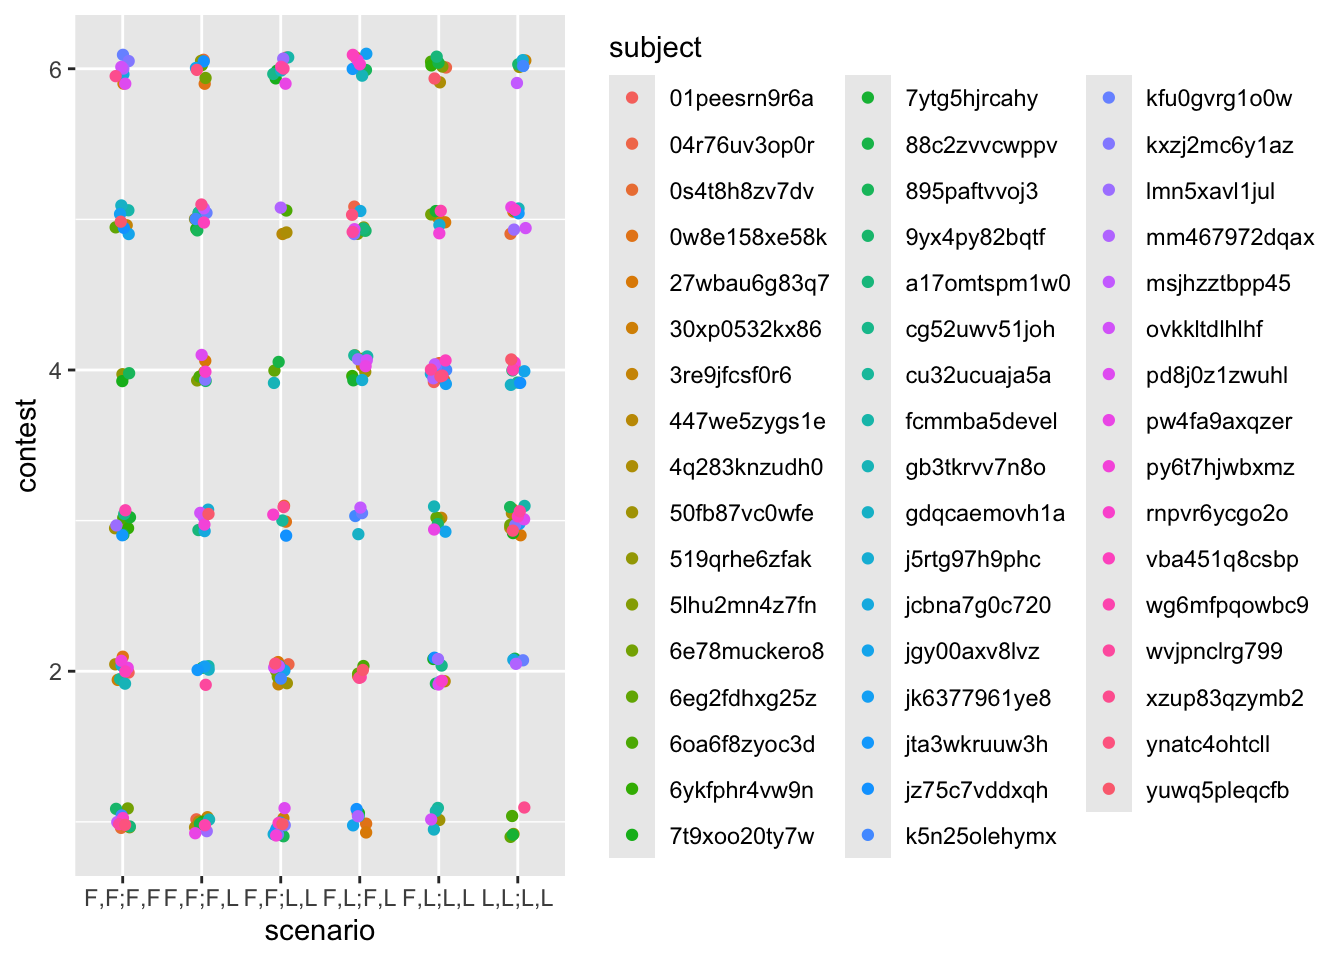
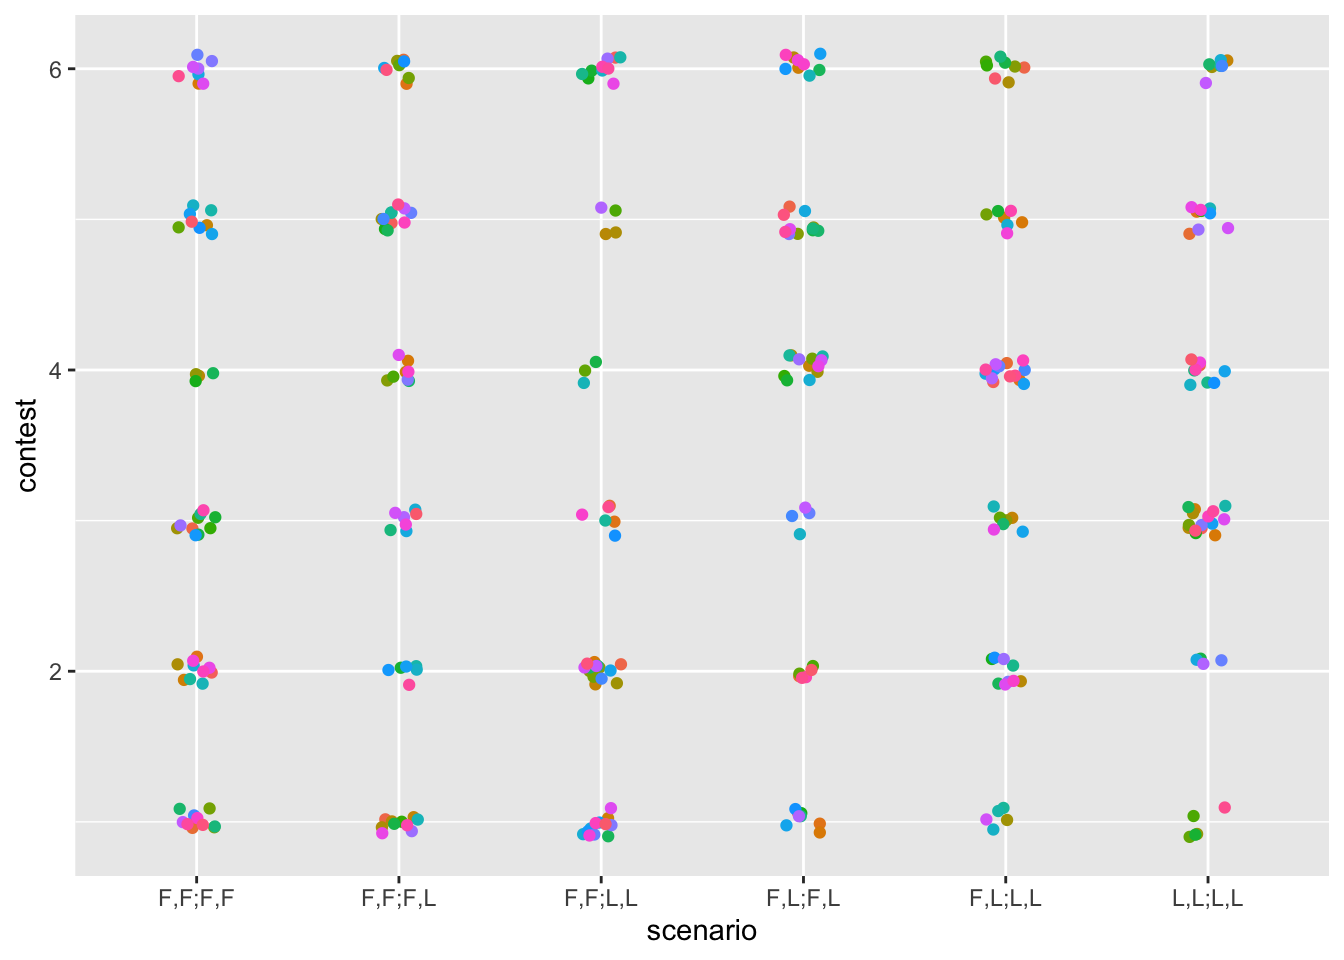
update to send to authors

diff --git a/_output/writeup/index.html b/_output/writeup/index.html
@@ -7,7 +7,7 @@
 <meta name="viewport" content="width=device-width, initial-scale=1.0, user-scalable=yes">
 
 <meta name="author" content="Jacob C. Zimmerman">
-<meta name="dcterms.date" content="2025-12-10">
+<meta name="dcterms.date" content="2025-12-19">
 
 <title>Replication of Experiment 1 by Xiang, Vélez &amp; Gershman (2023, JEP:G)</title>
 <style>
@@ -237,7 +237,7 @@ window.Quarto = {
     <div>
     <div class="quarto-title-meta-heading">Published</div>
     <div class="quarto-title-meta-contents">
-      <p class="date">December 10, 2025</p>
+      <p class="date">December 19, 2025</p>
     </div>
   </div>
   
@@ -252,7 +252,7 @@ window.Quarto = {
 <!-- Replication reports should all use this template to standardize reporting across projects.  These reports will be public supplementary materials that accompany the summary report(s) of the aggregate results. -->
 <section id="introduction" class="level2">
 <h2 class="anchored" data-anchor-id="introduction">Introduction</h2>
-<p>How do individuals perceive, represent, and judge potential collaborators’ affordances for collaboration? <span class="citation" data-cites="Xiang2023-zo">Xiang et al. (<a href="#ref-Xiang2023-zo" role="doc-biblioref">2023</a>)</span> propose and empirically validate a probabilistic model in which recursively updated inferences of competence and effort (“belief–desire–competence framework”), together with observed outcomes, jointly predict individuals’ judgments of collaborators, across various cognitive tasks which are common within collaboration. In particular, in Experiment 1, their model best predicts participants’ judgments about whether joint activity will succeed, compared to plausible alternative models. I sought to replicate this finding to help establish the robustness of this model of collaborator judgment, before I might extend it in future work.</p>
+<p>How do individuals perceive, represent, and judge potential collaborators’ affordances for collaboration? <span class="citation" data-cites="Xiang2023-zo">Xiang et al. (<a href="#ref-Xiang2023-zo" role="doc-biblioref">2023</a>)</span> propose and empirically validate a probabilistic model in which jointly inferred estimates of competence and effort, given observed outcomes (“belief–desire–competence framework”), predict individuals’ judgments of collaborators, across various cognitive tasks which are common within collaboration. In particular, in Experiment 1, their model best predicts participants’ judgments about whether joint activity will succeed, compared to plausible alternative models. I sought to replicate this finding to help establish the robustness of this model of collaborator judgment, before I might extend it in future work.</p>
 <p>Experiment 1 involves observing contestants try to lift a heavy box in a set of <em>contests</em> (six total), each containing three <em>rounds</em>. In each contest, there are two unique avatars playing as the <em>contestants</em>. In rounds 1 and 2, each contestant attempts to lift the box by themselves. In round 3, the contestants attempt to lift the box together. In each round, after observing each contestant succeed or fail to lift the box, the participant judges the strength of each contestant (1–10), and for each contestant that successfully lifted the box, the participant judges that contestant’s allocated effort (0%–100%). At the start of round 2, the participant judges each contestant’s probability of lifting the box successfully (0%–100%), prior to observing the lift attempts. At the start of round 3, the participant judges the probability that the contestants will successfully lift the box together. Further, an incentive to the contestants for lifting the box is specified in each round: in the second and third rounds, the specified reward for lifting the box is double that of the first round. Participants are also told that the heavy box had a constant weight across all contests, which effectively requires at least 5 strength points applied (e.g., on average, 100% effort for a contestant with strength 5, or 50% effort for a contestant with strength 10, etc.). Last, participants see a progressively filled-out table of all the lift outcomes during each contest, visible throughout, including when making judgments.</p>
 <div class="quarto-figure quarto-figure-center">
 <figure class="figure">
@@ -773,7 +773,8 @@ Presentation accompanying this report: <a href="https://psyc-201.github.io/xiang
 <span id="cb24-2"><a href="#cb24-2" aria-hidden="true" tabindex="-1"></a>dat_clean <span class="sc">%&gt;%</span></span>
 <span id="cb24-3"><a href="#cb24-3" aria-hidden="true" tabindex="-1"></a>  <span class="fu">filter</span>(agent <span class="sc">==</span> <span class="dv">1</span>, round <span class="sc">==</span> <span class="dv">3</span>) <span class="sc">%&gt;%</span></span>
 <span id="cb24-4"><a href="#cb24-4" aria-hidden="true" tabindex="-1"></a>  <span class="fu">ggplot</span>(<span class="fu">aes</span>(<span class="at">x =</span> scenario, <span class="at">y =</span> contest)) <span class="sc">+</span></span>
-<span id="cb24-5"><a href="#cb24-5" aria-hidden="true" tabindex="-1"></a>  <span class="fu">geom_jitter</span>(<span class="fu">aes</span>(<span class="at">color =</span> subject), <span class="at">width=</span>.<span class="dv">1</span>, <span class="at">height=</span>.<span class="dv">1</span>)</span></code></pre></div><button title="Copy to Clipboard" class="code-copy-button"><i class="bi"></i></button></div>
+<span id="cb24-5"><a href="#cb24-5" aria-hidden="true" tabindex="-1"></a>  <span class="fu">geom_jitter</span>(<span class="fu">aes</span>(<span class="at">color =</span> subject), <span class="at">width=</span>.<span class="dv">1</span>, <span class="at">height=</span>.<span class="dv">1</span>) <span class="sc">+</span></span>
+<span id="cb24-6"><a href="#cb24-6" aria-hidden="true" tabindex="-1"></a>  <span class="fu">theme</span>(<span class="at">legend.position =</span> <span class="st">"none"</span>)</span></code></pre></div><button title="Copy to Clipboard" class="code-copy-button"><i class="bi"></i></button></div>
 </details>
 <div class="cell-output-display">
 <div>
@@ -794,7 +795,8 @@ Presentation accompanying this report: <a href="https://psyc-201.github.io/xiang
 <div class="code-copy-outer-scaffold"><div class="sourceCode cell-code" id="cb27"><pre class="sourceCode r code-with-copy"><code class="sourceCode r"><span id="cb27-1"><a href="#cb27-1" aria-hidden="true" tabindex="-1"></a>dat_clean <span class="sc">%&gt;%</span></span>
 <span id="cb27-2"><a href="#cb27-2" aria-hidden="true" tabindex="-1"></a>  <span class="fu">filter</span>(agent <span class="sc">==</span> <span class="dv">1</span>, round <span class="sc">==</span> <span class="dv">3</span>) <span class="sc">%&gt;%</span></span>
 <span id="cb27-3"><a href="#cb27-3" aria-hidden="true" tabindex="-1"></a>  <span class="fu">ggplot</span>(<span class="fu">aes</span>(<span class="at">x =</span> scenario)) <span class="sc">+</span></span>
-<span id="cb27-4"><a href="#cb27-4" aria-hidden="true" tabindex="-1"></a>  <span class="fu">geom_col</span>(<span class="fu">aes</span>(<span class="at">fill =</span> subject), <span class="at">stat=</span><span class="st">"count"</span>)</span></code></pre></div><button title="Copy to Clipboard" class="code-copy-button"><i class="bi"></i></button></div>
+<span id="cb27-4"><a href="#cb27-4" aria-hidden="true" tabindex="-1"></a>  <span class="fu">geom_col</span>(<span class="fu">aes</span>(<span class="at">fill =</span> subject), <span class="at">stat=</span><span class="st">"count"</span>) <span class="sc">+</span></span>
+<span id="cb27-5"><a href="#cb27-5" aria-hidden="true" tabindex="-1"></a>  <span class="fu">theme</span>(<span class="at">legend.position =</span> <span class="st">"none"</span>)</span></code></pre></div><button title="Copy to Clipboard" class="code-copy-button"><i class="bi"></i></button></div>
 </details>
 <div class="cell-output-display">
 <div>
@@ -815,7 +817,8 @@ Presentation accompanying this report: <a href="https://psyc-201.github.io/xiang
 <div class="code-copy-outer-scaffold"><div class="sourceCode cell-code" id="cb30"><pre class="sourceCode r code-with-copy"><code class="sourceCode r"><span id="cb30-1"><a href="#cb30-1" aria-hidden="true" tabindex="-1"></a>dat_clean <span class="sc">%&gt;%</span></span>
 <span id="cb30-2"><a href="#cb30-2" aria-hidden="true" tabindex="-1"></a>  <span class="fu">filter</span>(agent <span class="sc">==</span> <span class="dv">1</span>, round <span class="sc">==</span> <span class="dv">3</span>) <span class="sc">%&gt;%</span></span>
 <span id="cb30-3"><a href="#cb30-3" aria-hidden="true" tabindex="-1"></a>  <span class="fu">ggplot</span>(<span class="fu">aes</span>(<span class="at">x =</span> contest)) <span class="sc">+</span></span>
-<span id="cb30-4"><a href="#cb30-4" aria-hidden="true" tabindex="-1"></a>  <span class="fu">geom_col</span>(<span class="fu">aes</span>(<span class="at">fill =</span> subject), <span class="at">stat=</span><span class="st">"count"</span>)</span></code></pre></div><button title="Copy to Clipboard" class="code-copy-button"><i class="bi"></i></button></div>
+<span id="cb30-4"><a href="#cb30-4" aria-hidden="true" tabindex="-1"></a>  <span class="fu">geom_col</span>(<span class="fu">aes</span>(<span class="at">fill =</span> subject), <span class="at">stat=</span><span class="st">"count"</span>) <span class="sc">+</span></span>
+<span id="cb30-5"><a href="#cb30-5" aria-hidden="true" tabindex="-1"></a>  <span class="fu">theme</span>(<span class="at">legend.position =</span> <span class="st">"none"</span>)</span></code></pre></div><button title="Copy to Clipboard" class="code-copy-button"><i class="bi"></i></button></div>
 </details>
 <div class="cell-output-display">
 <div>
@@ -837,7 +840,8 @@ Presentation accompanying this report: <a href="https://psyc-201.github.io/xiang
 <span id="cb33-2"><a href="#cb33-2" aria-hidden="true" tabindex="-1"></a>  <span class="fu">ggplot</span>(<span class="fu">aes</span>(<span class="at">x =</span> round, <span class="at">y=</span>effort, <span class="at">color=</span>subject)) <span class="sc">+</span></span>
 <span id="cb33-3"><a href="#cb33-3" aria-hidden="true" tabindex="-1"></a>  <span class="fu">geom_point</span>() <span class="sc">+</span> <span class="fu">geom_line</span>() <span class="sc">+</span></span>
 <span id="cb33-4"><a href="#cb33-4" aria-hidden="true" tabindex="-1"></a>  <span class="fu">geom_smooth</span>(<span class="at">method=</span>lm, <span class="at">se=</span>F, <span class="at">color=</span><span class="st">"black"</span>) <span class="sc">+</span></span>
-<span id="cb33-5"><a href="#cb33-5" aria-hidden="true" tabindex="-1"></a>  <span class="fu">facet_wrap</span>(scenario<span class="sc">~</span>agent)</span></code></pre></div><button title="Copy to Clipboard" class="code-copy-button"><i class="bi"></i></button></div>
+<span id="cb33-5"><a href="#cb33-5" aria-hidden="true" tabindex="-1"></a>  <span class="fu">facet_wrap</span>(scenario<span class="sc">~</span>agent) <span class="sc">+</span></span>
+<span id="cb33-6"><a href="#cb33-6" aria-hidden="true" tabindex="-1"></a>  <span class="fu">theme</span>(<span class="at">legend.position =</span> <span class="st">"none"</span>)</span></code></pre></div><button title="Copy to Clipboard" class="code-copy-button"><i class="bi"></i></button></div>
 </details>
 <div class="cell-output cell-output-stderr">
 <pre><code>`geom_smooth()` using formula = 'y ~ x'</code></pre>
@@ -867,7 +871,8 @@ Presentation accompanying this report: <a href="https://psyc-201.github.io/xiang
 <span id="cb38-2"><a href="#cb38-2" aria-hidden="true" tabindex="-1"></a>  <span class="fu">ggplot</span>(<span class="fu">aes</span>(<span class="at">x =</span> round, <span class="at">y=</span>strength, <span class="at">color=</span>subject)) <span class="sc">+</span></span>
 <span id="cb38-3"><a href="#cb38-3" aria-hidden="true" tabindex="-1"></a>  <span class="fu">geom_point</span>() <span class="sc">+</span> <span class="fu">geom_line</span>() <span class="sc">+</span></span>
 <span id="cb38-4"><a href="#cb38-4" aria-hidden="true" tabindex="-1"></a>  <span class="fu">geom_smooth</span>(<span class="at">method=</span>lm, <span class="at">se=</span>F, <span class="at">color=</span><span class="st">"black"</span>) <span class="sc">+</span></span>
-<span id="cb38-5"><a href="#cb38-5" aria-hidden="true" tabindex="-1"></a>  <span class="fu">facet_wrap</span>(scenario<span class="sc">~</span>agent)</span></code></pre></div><button title="Copy to Clipboard" class="code-copy-button"><i class="bi"></i></button></div>
+<span id="cb38-5"><a href="#cb38-5" aria-hidden="true" tabindex="-1"></a>  <span class="fu">facet_wrap</span>(scenario<span class="sc">~</span>agent) <span class="sc">+</span></span>
+<span id="cb38-6"><a href="#cb38-6" aria-hidden="true" tabindex="-1"></a>  <span class="fu">theme</span>(<span class="at">legend.position =</span> <span class="st">"none"</span>)</span></code></pre></div><button title="Copy to Clipboard" class="code-copy-button"><i class="bi"></i></button></div>
 </details>
 <div class="cell-output cell-output-stderr">
 <pre><code>`geom_smooth()` using formula = 'y ~ x'</code></pre>
@@ -885,7 +890,8 @@ Presentation accompanying this report: <a href="https://psyc-201.github.io/xiang
 <span id="cb40-2"><a href="#cb40-2" aria-hidden="true" tabindex="-1"></a>  <span class="fu">ggplot</span>(<span class="fu">aes</span>(<span class="at">x =</span> round, <span class="at">y=</span>prob, <span class="at">color=</span>subject)) <span class="sc">+</span></span>
 <span id="cb40-3"><a href="#cb40-3" aria-hidden="true" tabindex="-1"></a>  <span class="fu">geom_point</span>() <span class="sc">+</span> <span class="fu">geom_line</span>() <span class="sc">+</span></span>
 <span id="cb40-4"><a href="#cb40-4" aria-hidden="true" tabindex="-1"></a>  <span class="fu">geom_smooth</span>(<span class="at">method=</span>lm, <span class="at">se=</span>F, <span class="at">color=</span><span class="st">"black"</span>) <span class="sc">+</span></span>
-<span id="cb40-5"><a href="#cb40-5" aria-hidden="true" tabindex="-1"></a>  <span class="fu">facet_wrap</span>(scenario<span class="sc">~</span>agent)</span></code></pre></div><button title="Copy to Clipboard" class="code-copy-button"><i class="bi"></i></button></div>
+<span id="cb40-5"><a href="#cb40-5" aria-hidden="true" tabindex="-1"></a>  <span class="fu">facet_wrap</span>(scenario<span class="sc">~</span>agent) <span class="sc">+</span></span>
+<span id="cb40-6"><a href="#cb40-6" aria-hidden="true" tabindex="-1"></a>  <span class="fu">theme</span>(<span class="at">legend.position =</span> <span class="st">"none"</span>)</span></code></pre></div><button title="Copy to Clipboard" class="code-copy-button"><i class="bi"></i></button></div>
 </details>
 <div class="cell-output cell-output-stderr">
 <pre><code>`geom_smooth()` using formula = 'y ~ x'</code></pre>

diff --git a/README.md b/README.md
@@ -1,4 +1,4 @@
-# xiang2023 Replication Project
+# Xiang2023 Replication Project
 
 Made from template: https://github.com/psyc-201/replication_template
 
@@ -13,11 +13,11 @@ Made from template: https://github.com/psyc-201/replication_template
 
 - First, set up environment using `pixi install` then `pixi setup`
 - Can preview writeup, presentation, or both using `pixi run preview writeup`/`pixi run preview presentation`/`pixi run preview`
-- Can render writeup, presentation, or both using `pixi run render writeup`/`pixi run render presentation`/`pixi run preview`
+- Can render writeup, presentation, or both using `pixi run render writeup`/`pixi run render presentation`/`pixi run render`
 - To deploy rendered documents, render locally then deploy the rendered files
 
 > [!IMPORTANT]
-> This repository contains key submodules for the experiment code and modeling code. To load them, run `git submodule update --init --recursive` after cloning the repository.
+> This repository contains key submodules for the experiment code and modeling code. To load them, run `git submodule update --init --recursive` after cloning the repository. (Whenever need to update submodule(s) to remote changes, run `git submodule update --remote [path]`.)
 
 > [!WARNING]
 > To fetch data from OSF, need to set OSF_PAT (e.g., using a `.Renviron` file). If OSF_PAT is specified, the data will be fetched and resaved as `data/...-anon.csv`, assuming their contents are already non-identifiable (see `writeup/index.qmd`). Double-check that they are before committing them. If OSF_PAT is not specified, the anonymized data will be assumed to be already accessible in `data/`.
@@ -74,7 +74,7 @@ Note that some columns are only specified for some levels of Stage
 | trial_outcome | The actual outcome for the selected contestant |
 | bonus | The computed bonus |
 | attention_sum | The total number of attention checks passed |
-| attention | Did the participant pass both attention checks? (1 = passed both, 0 = failed at least one)
+| attention | Did the participant pass both attention checks? (1 = passed both, 0 = failed at least one) |
 | datapipe_meta.attributes.date_modified | The date the file on OSF was last modified (corresponds to when it was saved) |
 
 ### Clean data
@@ -89,4 +89,8 @@ See `original_code/competence_effort/Data/README.txt` for description of the der
 
 ## Computational models
 
-`new_code/memo-sandbox` is an environment for building up memo models alongside reference examples (both in memo and in webppl). To run the code specifically for reproducing the computational modeling done in this replication, one file is sufficient: `new_code/memo-sandbox/webppl vs memo/xiang2023-exp1-round3-memo.qmd`.
+`new_code/memo-sandbox` is an environment for building up memo models alongside reference examples (both in memo and in webppl). To run the code specifically for reproducing the computational modeling done in this replication, one file is sufficient: `new_code/memo-sandbox/webppl vs memo/xiang2023-exp1-round3-memo.qmd`. See `new_code/memo-sandbox` for more information.
+
+## References
+
+Xiang, Y., Vélez, N., & Gershman, S. J. (2023). Collaborative decision making is grounded in representations of other people’s competence and effort. _J. Exp. Psychol. Gen._, _152_(6), 1565–1579.

diff --git a/TODO.md b/TODO.md
@@ -15,5 +15,6 @@
 - [x] create a README for the OSF component (just point reader to the github repo)
 - [-] save preprocessed data as well? or can just keep the original raw data
 
-- [ ] clean up the memo-sandbox/ code a bit more before share with original authors; include in that repo's readme more aobut how to run it (describe what each file is for, esp. pointing out that the -memo.qmd file is all that is necessary for generating the model fit results. can subtitle the memo-sandbox README as "environment for building up memo models alongside reference examples (both in memo and in webppl)")
+- [x] make the sanity check plots make the individual trends more clear (hide legend)
+- [x] clean up the memo-sandbox/ code a bit more before share with original authors; include in that repo's readme more about how to run it (describe what each file is for, esp. pointing out that the -memo.qmd file is all that is necessary for generating the model fit results. can subtitle the memo-sandbox README as "environment for building up memo models alongside reference examples (both in memo and in webppl)")
 - [ ] send to original authors
